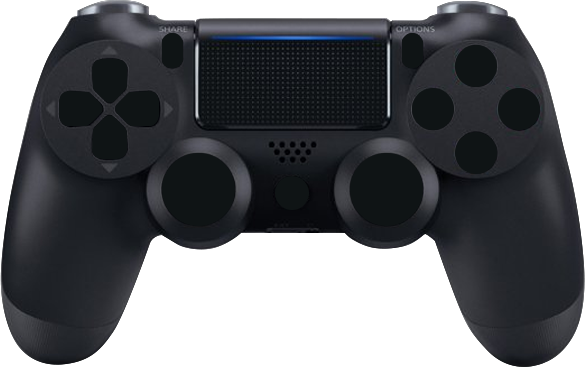
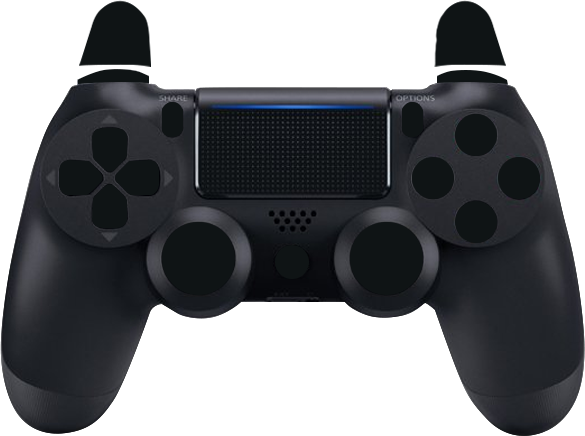
:sparkles: dualshock 4 mostly done

diff --git a/packages/gamepad-debug-ui/src/components/Dualshock4.tsx b/packages/gamepad-debug-ui/src/components/Dualshock4.tsx
@@ -4,6 +4,10 @@ import TRIANGLE from "../../assets/gamepads/dualshock4/TRIANGLE.png"
 import SQUARE from "../../assets/gamepads/dualshock4/SQUARE.png"
 import CIRCLE from "../../assets/gamepads/dualshock4/CIRCLE.png"
 import CROSS from "../../assets/gamepads/dualshock4/CROSS.png"
+import L1 from "../../assets/gamepads/dualshock4/L1.png"
+import L2 from "../../assets/gamepads/dualshock4/L2.png"
+import R1 from "../../assets/gamepads/dualshock4/R1.png"
+import R2 from "../../assets/gamepads/dualshock4/R2.png"
 import ANALOG_LEFT from "../../assets/gamepads/dualshock4/ANALOG_LEFT.png"
 import ANALOG_RIGHT from "../../assets/gamepads/dualshock4/ANALOG_RIGHT.png"
 import HOME from "../../assets/gamepads/dualshock4/HOME.png"
@@ -22,6 +26,12 @@ type Props = {
   cross: boolean
   circle: boolean
 
+  // Triggers
+  l1: boolean
+  l2: boolean
+  r1: boolean
+  r2: boolean
+
   // Middle buttons
   share: boolean
   options: boolean
@@ -39,6 +49,8 @@ type Props = {
   analogLeftHorizontal: number
   analogRightVertical: number
   analogRightHorizontal: number
+  l3: boolean
+  r3: boolean
 }
 
 const Dualshock4 = ({
@@ -47,6 +59,10 @@ const Dualshock4 = ({
   triangle,
   cross,
   circle,
+  l1,
+  l2,
+  r1,
+  r2,
   share,
   options,
   home,
@@ -57,11 +73,18 @@ const Dualshock4 = ({
   analogLeftVertical,
   analogLeftHorizontal,
   analogRightVertical,
-  analogRightHorizontal
+  analogRightHorizontal,
+  l3,
+  r3
 }: Props) => {
   return (
-    <div style={{ position: "relative", width: "585px", height: "368px", transform: `scale(${scale})`, transformOrigin: "top left" }}>
-      <img src={GamepadBG} />
+    <div style={{ position: "relative", width: "585px", height: "437px", transform: `scale(${scale})`, transformOrigin: "top left" }}>
+      <img src={GamepadBG}
+        style={{
+          position: "absolute",
+          left: 0,
+          top: 0,
+        }} />
 
       {/* Face buttons */}
       <img
@@ -69,7 +92,7 @@ const Dualshock4 = ({
         style={{
           position: "absolute",
           left: 455,
-          top: 46,
+          top: 116,
           opacity: triangle ? "0.5" : "1"
         }}
       />
@@ -78,7 +101,7 @@ const Dualshock4 = ({
         style={{
           position: "absolute",
           left: 412,
-          top: 89,
+          top: 159,
           opacity: square ? "0.5" : "1"
         }}
       />
@@ -87,7 +110,7 @@ const Dualshock4 = ({
         style={{
           position: "absolute",
           left: 498,
-          top: 89,
+          top: 159,
           opacity: circle ? "0.5" : "1"
         }}
       />
@@ -96,7 +119,7 @@ const Dualshock4 = ({
         style={{
           position: "absolute",
           left: 455,
-          top: 133,
+          top: 203,
           opacity: cross ? "0.5" : "1"
         }}
       />
@@ -107,7 +130,7 @@ const Dualshock4 = ({
         style={{
           position: "absolute",
           left: 275,
-          top: 177,
+          top: 243,
           opacity: home ? "0.5" : "1"
         }}
       />
@@ -116,7 +139,7 @@ const Dualshock4 = ({
         style={{
           position: "absolute",
           left: 162,
-          top: 34,
+          top: 104,
           opacity: share ? "0.5" : "1"
         }}
       />
@@ -125,8 +148,46 @@ const Dualshock4 = ({
         style={{
           position: "absolute",
           left: 402,
-          top: 34,
+          top: 104,
           opacity: options ? "0.5" : "1"
+        }}
+      />
+
+      {/* Triggers */}
+      <img
+        src={L1}
+        style={{
+          position: "absolute",
+          left: 77,
+          top: 70,
+          opacity: l1 ? "0.5" : "1"
+        }}
+      />
+      <img
+        src={L2}
+        style={{
+          position: "absolute",
+          left: 79,
+          top: 0,
+          opacity: l2 ? "0.5" : "1"
+        }}
+      />
+      <img
+        src={R1}
+        style={{
+          position: "absolute",
+          left: 437,
+          top: 70,
+          opacity: r1 ? "0.5" : "1"
+        }}
+      />
+      <img
+        src={R2}
+        style={{
+          position: "absolute",
+          left: 434,
+          top: 0,
+          opacity: r2 ? "0.5" : "1"
         }}
       />
 
@@ -136,7 +197,8 @@ const Dualshock4 = ({
         style={{
           position: "absolute",
           left: 162,
-          top: 154,
+          top: 224,
+          opacity: l3 ? "0.5" : "1",
           transform: `translate(${analogLeftHorizontal * 10}px, ${analogLeftVertical * 10}px)`
         }}
       />
@@ -145,7 +207,8 @@ const Dualshock4 = ({
         style={{
           position: "absolute",
           left: 350,
-          top: 154,
+          top: 224,
+          opacity: r3 ? "0.5" : "1",
           transform: `translate(${analogRightHorizontal * 10}px, ${analogRightVertical * 10}px)`
         }}
       />
@@ -156,7 +219,7 @@ const Dualshock4 = ({
         style={{
           position: "absolute",
           left: 92,
-          top: 59,
+          top: 129,
           opacity: up ? "0.5" : "1"
         }}
       />
@@ -165,7 +228,7 @@ const Dualshock4 = ({
         style={{
           position: "absolute",
           left: 92,
-          top: 116,
+          top: 186,
           opacity: down ? "0.5" : "1"
         }}
       />
@@ -174,7 +237,7 @@ const Dualshock4 = ({
         style={{
           position: "absolute",
           left: 58,
-          top: 92,
+          top: 162,
           opacity: left ? "0.5" : "1"
         }}
       />
@@ -183,7 +246,7 @@ const Dualshock4 = ({
         style={{
           position: "absolute",
           left: 115,
-          top: 92,
+          top: 162,
           opacity: right ? "0.5" : "1"
         }}
       />

diff --git a/packages/gamepad-debug-ui/src/components/Gamepad.tsx b/packages/gamepad-debug-ui/src/components/Gamepad.tsx
@@ -1,27 +1,24 @@
-import React, { useCallback, useEffect, useMemo, useRef, useState } from "react"
+import React from "react"
 import { useGamepads } from "../context/GamepadContext";
-import useLoop from "../hooks/useLoop";
-import { useGamepadStore } from "../store/store";
+import { GamepadTypes } from "../types";
 import Dualshock4 from "./Dualshock4";
 
-// We create a map between the Input Map and the Gamepad inputs
-// e.g. Jump might be "x" on PS4 controller - or an ID like 13
-const GAMEPAD_MAP = {
-  start: "Jump",
-  dpadUp: "MoveUp",
-  dpadDown: "MoveDown"
+const GAMEPAD_TYPES: Record<GamepadTypes, React.ComponentType> = {
+  'dualshock4': Dualshock4,
+  'xboxone': Dualshock4,
 }
-type GamepadButtons = keyof typeof GAMEPAD_MAP; 
-type ButtonState = Record<GamepadButtons, boolean>; 
 
-type Props = {}
+type Props = {
+  type: GamepadTypes
+  scale: number
+}
 
-const Gamepad = ({ maxGamepads = 4 }: Props) => {
+const Gamepad = ({ type = 'dualshock4', scale }: Props) => {
   const {gamepads} = useGamepads();
 
   // console.log('[GAMEPAD] Buttons?', gamepads)
 
-  const currentGamepad = 1 in gamepads ? gamepads[1] : false; 
+  const currentGamepad = gamepads && 1 in gamepads ? gamepads[1] : false; 
 
   if(currentGamepad) {
 
@@ -30,11 +27,27 @@ const Gamepad = ({ maxGamepads = 4 }: Props) => {
       circle: currentGamepad.buttons[1].pressed,
       square: currentGamepad.buttons[2].pressed,
       triangle: currentGamepad.buttons[3].pressed,
+      l1: currentGamepad.buttons[4].pressed,
+      r1: currentGamepad.buttons[5].pressed,
+      l2: currentGamepad.buttons[6].pressed,
+      r2: currentGamepad.buttons[7].pressed,
+      share: currentGamepad.buttons[8].pressed,
+      option: currentGamepad.buttons[9].pressed,
+      l3: currentGamepad.buttons[10].pressed,
+      r3: currentGamepad.buttons[11].pressed,
+      up: currentGamepad.buttons[12].pressed,
+      down: currentGamepad.buttons[13].pressed,
+      left: currentGamepad.buttons[14].pressed,
+      right: currentGamepad.buttons[15].pressed,
       analogLeftHorizontal: currentGamepad.axes[0],
       analogLeftVertical: currentGamepad.axes[1],
+      analogRightHorizontal: currentGamepad.axes[2],
+      analogRightVertical: currentGamepad.axes[3],
     }
 
-    return <Dualshock4 {...buttonProps} />
+    const CurrentGamepad = GAMEPAD_TYPES[type];
+
+    return <CurrentGamepad {...buttonProps} scale={scale} />
   }
   return <div>No gamepads detected</div>
 

diff --git a/packages/gamepad-debug-ui/src/context/GamepadContext.tsx b/packages/gamepad-debug-ui/src/context/GamepadContext.tsx
@@ -8,7 +8,12 @@ import React, {
   useState,
 } from 'react';
 
-const GamepadsContext = createContext({});
+interface GamepadContextData {
+  gamepads?: Record<number, Gamepad>;
+  setGamepads?: React.Dispatch<React.SetStateAction<Gamepad[]>>;
+}
+
+const GamepadsContext = createContext<GamepadContextData>({});
 
 interface GamepadsProviderProps {
 }
@@ -20,7 +25,7 @@ export const GamepadsProvider = ({ children }: PropsWithChildren<GamepadsProvide
   var haveEvents = 'ongamepadconnected' in window;
 
   const addGamepad = useCallback(
-    gamepad => {
+    (gamepad: Gamepad) => {
       setGamepads({
         ...gamepads,
         [gamepad.index]: {
@@ -51,7 +56,9 @@ export const GamepadsProvider = ({ children }: PropsWithChildren<GamepadsProvide
     // Grab gamepads from browser API
     var detectedGamepads = navigator.getGamepads
       ? navigator.getGamepads()
+      // @ts-ignore
       : navigator.webkitGetGamepads
+      // @ts-ignore
       ? navigator.webkitGetGamepads()
       : [];
 

diff --git a/packages/demo/src/App.tsx b/packages/demo/src/App.tsx
@@ -7,8 +7,8 @@ const App = (props: Props) => {
   return (
     <GamepadsProvider>
     <div>
-      <h1>App</h1>
-      <Gamepad />
+      <h1>Gamepad Debug UI</h1>
+      <Gamepad scale={1} />
     </div>
     </GamepadsProvider>
   )

diff --git a/packages/gamepad-debug-ui/src/types.ts b/packages/gamepad-debug-ui/src/types.ts
@@ -1,0 +1,1 @@
+export type GamepadTypes = 'dualshock4' | 'dualsense' | 'xboxone'
